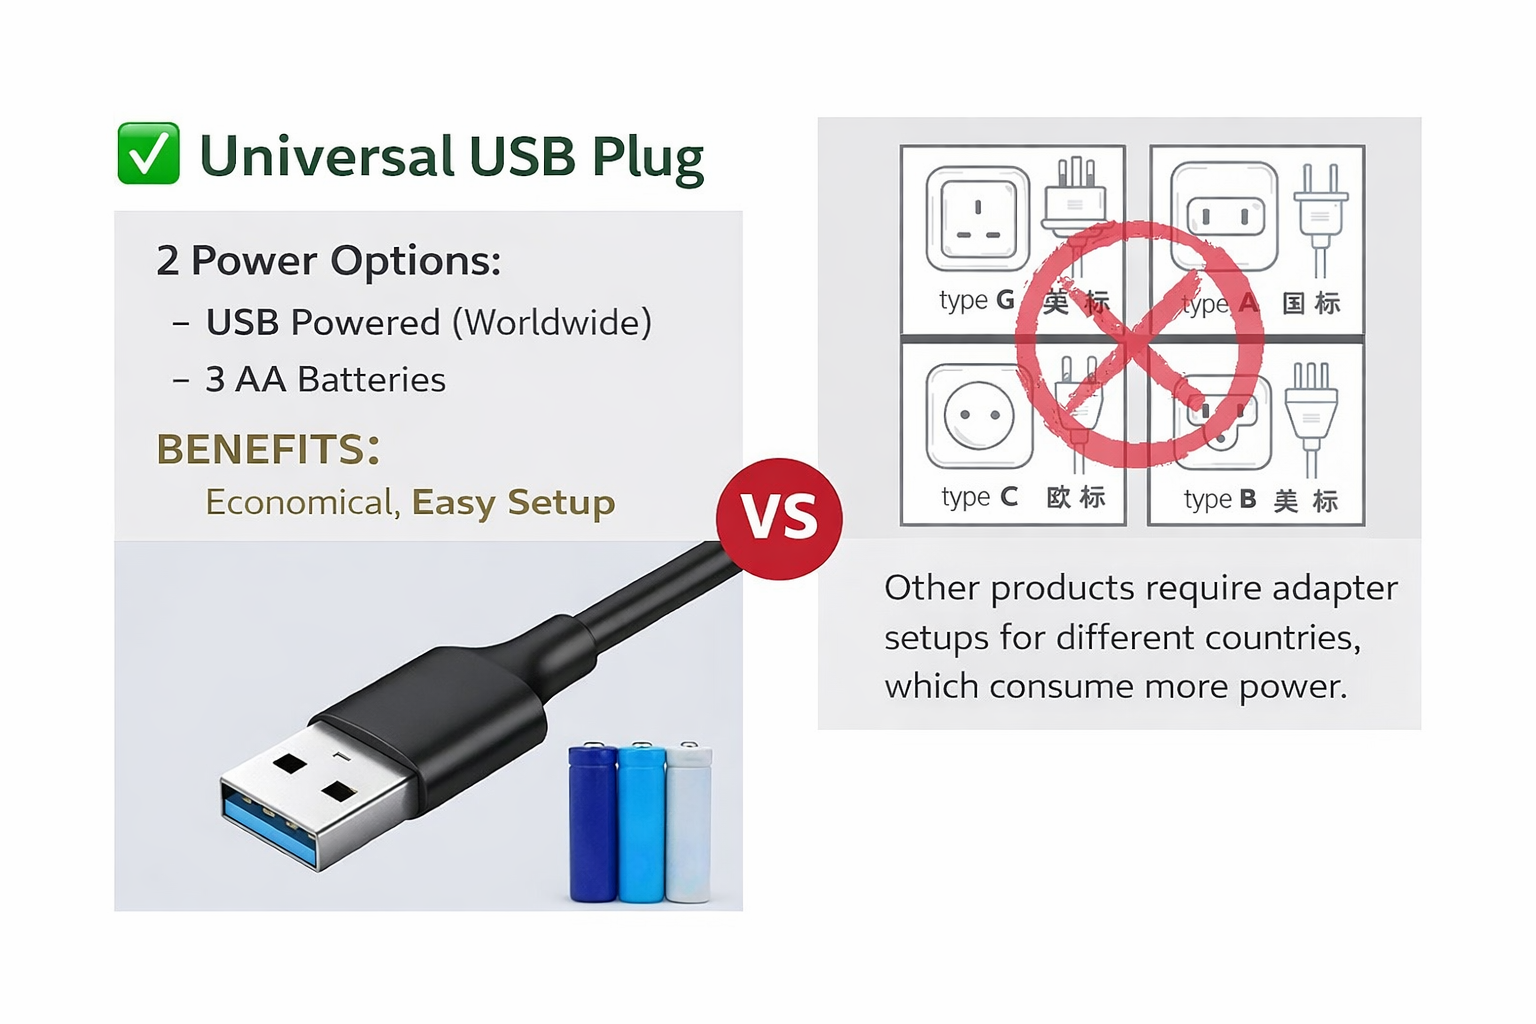
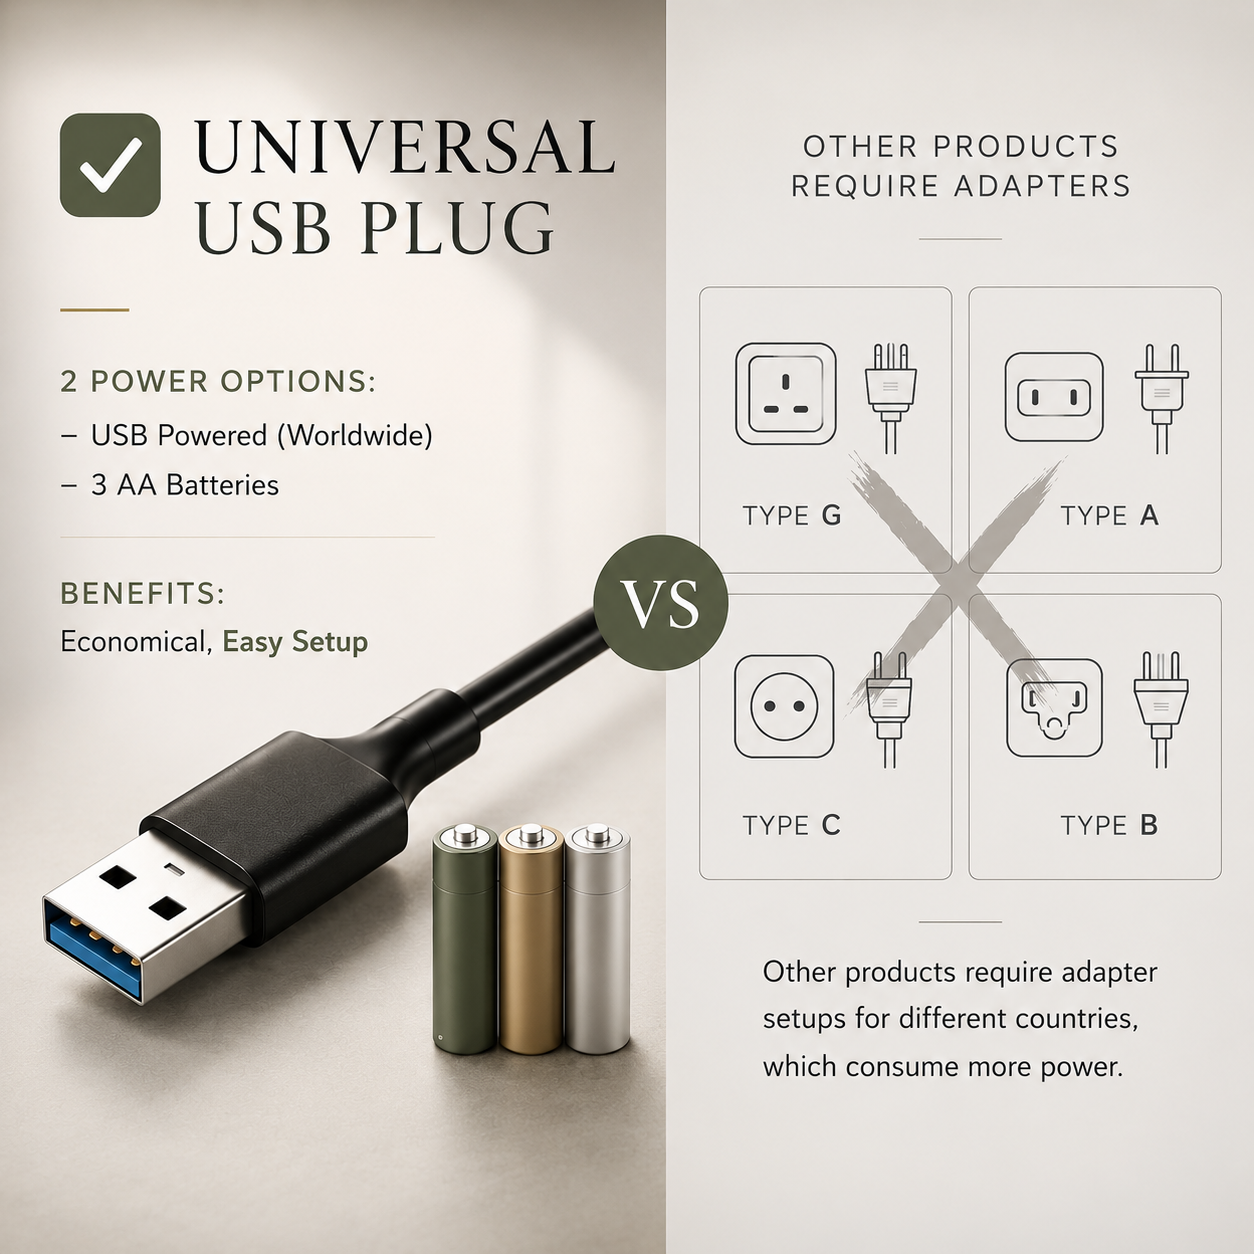
Replace USB/battery power graphic with the gold-battery version everywhere.
Swap Poster/description4.png so Versatile Power Options matches Included & Guides.

diff --git a/scripts/sync-catalog-from-images.js b/scripts/sync-catalog-from-images.js
@@ -207,7 +207,7 @@ function productPageTemplate(slug, name, imagePath, price30) {
     '      <section class="power-compatibility section" aria-labelledby="power-compatibility-title" id="power-compatibility">',
     '        <div class="power-compatibility-wrap">',
     '          <div class="power-compatibility-media">',
-    '            <img src="/Poster/description4.png" alt="ZYBAR power options – versatile plug and play worldwide" class="power-compatibility-img" loading="lazy" width="1536" height="1024" />',
+    '            <img src="/Poster/description4.png?v=gold" alt="ZYBAR power options – versatile plug and play worldwide" class="power-compatibility-img" loading="lazy" width="1536" height="1024" />',
     '          </div>',
     '          <div class="power-compatibility-content">',
     '            <h2 class="power-compatibility-title" id="power-compatibility-title">VERSATILE POWER OPTIONS</h2>',

diff --git a/products/b-nissan-gt-r35/index.html b/products/b-nissan-gt-r35/index.html
@@ -139,7 +139,7 @@
       <section class="power-compatibility section" aria-labelledby="power-compatibility-title" id="power-compatibility">
         <div class="power-compatibility-wrap">
           <div class="power-compatibility-media">
-            <img src="/Poster/description4.png" alt="ZYBAR power options – versatile plug and play worldwide" class="power-compatibility-img" loading="lazy" width="1536" height="1024" />
+            <img src="/Poster/description4.png?v=gold" alt="ZYBAR power options – versatile plug and play worldwide" class="power-compatibility-img" loading="lazy" width="1536" height="1024" />
           </div>
           <div class="power-compatibility-content">
             <h2 class="power-compatibility-title" id="power-compatibility-title">VERSATILE POWER OPTIONS</h2>

diff --git a/products/b-yamaha-r1/index.html b/products/b-yamaha-r1/index.html
@@ -139,7 +139,7 @@
       <section class="power-compatibility section" aria-labelledby="power-compatibility-title" id="power-compatibility">
         <div class="power-compatibility-wrap">
           <div class="power-compatibility-media">
-            <img src="/Poster/description4.png" alt="ZYBAR power options – versatile plug and play worldwide" class="power-compatibility-img" loading="lazy" width="1536" height="1024" />
+            <img src="/Poster/description4.png?v=gold" alt="ZYBAR power options – versatile plug and play worldwide" class="power-compatibility-img" loading="lazy" width="1536" height="1024" />
           </div>
           <div class="power-compatibility-content">
             <h2 class="power-compatibility-title" id="power-compatibility-title">VERSATILE POWER OPTIONS</h2>

diff --git a/products/bmw-classic-3-0/index.html b/products/bmw-classic-3-0/index.html
@@ -139,7 +139,7 @@
       <section class="power-compatibility section" aria-labelledby="power-compatibility-title" id="power-compatibility">
         <div class="power-compatibility-wrap">
           <div class="power-compatibility-media">
-            <img src="/Poster/description4.png" alt="ZYBAR power options – versatile plug and play worldwide" class="power-compatibility-img" loading="lazy" width="1536" height="1024" />
+            <img src="/Poster/description4.png?v=gold" alt="ZYBAR power options – versatile plug and play worldwide" class="power-compatibility-img" loading="lazy" width="1536" height="1024" />
           </div>
           <div class="power-compatibility-content">
             <h2 class="power-compatibility-title" id="power-compatibility-title">VERSATILE POWER OPTIONS</h2>

diff --git a/products/bmw-m1000rr/index.html b/products/bmw-m1000rr/index.html
@@ -139,7 +139,7 @@
       <section class="power-compatibility section" aria-labelledby="power-compatibility-title" id="power-compatibility">
         <div class="power-compatibility-wrap">
           <div class="power-compatibility-media">
-            <img src="/Poster/description4.png" alt="ZYBAR power options – versatile plug and play worldwide" class="power-compatibility-img" loading="lazy" width="1536" height="1024" />
+            <img src="/Poster/description4.png?v=gold" alt="ZYBAR power options – versatile plug and play worldwide" class="power-compatibility-img" loading="lazy" width="1536" height="1024" />
           </div>
           <div class="power-compatibility-content">
             <h2 class="power-compatibility-title" id="power-compatibility-title">VERSATILE POWER OPTIONS</h2>

diff --git a/products/bmw-m2-neon/index.html b/products/bmw-m2-neon/index.html
@@ -139,7 +139,7 @@
       <section class="power-compatibility section" aria-labelledby="power-compatibility-title" id="power-compatibility">
         <div class="power-compatibility-wrap">
           <div class="power-compatibility-media">
-            <img src="/Poster/description4.png" alt="ZYBAR power options – versatile plug and play worldwide" class="power-compatibility-img" loading="lazy" width="1536" height="1024" />
+            <img src="/Poster/description4.png?v=gold" alt="ZYBAR power options – versatile plug and play worldwide" class="power-compatibility-img" loading="lazy" width="1536" height="1024" />
           </div>
           <div class="power-compatibility-content">
             <h2 class="power-compatibility-title" id="power-compatibility-title">VERSATILE POWER OPTIONS</h2>

diff --git a/products/bmw-m4-black/index.html b/products/bmw-m4-black/index.html
@@ -139,7 +139,7 @@
       <section class="power-compatibility section" aria-labelledby="power-compatibility-title" id="power-compatibility">
         <div class="power-compatibility-wrap">
           <div class="power-compatibility-media">
-            <img src="/Poster/description4.png" alt="ZYBAR power options – versatile plug and play worldwide" class="power-compatibility-img" loading="lazy" width="1536" height="1024" />
+            <img src="/Poster/description4.png?v=gold" alt="ZYBAR power options – versatile plug and play worldwide" class="power-compatibility-img" loading="lazy" width="1536" height="1024" />
           </div>
           <div class="power-compatibility-content">
             <h2 class="power-compatibility-title" id="power-compatibility-title">VERSATILE POWER OPTIONS</h2>

diff --git a/products/bmw-m4/index.html b/products/bmw-m4/index.html
@@ -139,7 +139,7 @@
       <section class="power-compatibility section" aria-labelledby="power-compatibility-title" id="power-compatibility">
         <div class="power-compatibility-wrap">
           <div class="power-compatibility-media">
-            <img src="/Poster/description4.png" alt="ZYBAR power options – versatile plug and play worldwide" class="power-compatibility-img" loading="lazy" width="1536" height="1024" />
+            <img src="/Poster/description4.png?v=gold" alt="ZYBAR power options – versatile plug and play worldwide" class="power-compatibility-img" loading="lazy" width="1536" height="1024" />
           </div>
           <div class="power-compatibility-content">
             <h2 class="power-compatibility-title" id="power-compatibility-title">VERSATILE POWER OPTIONS</h2>

diff --git a/products/bmw-m5-e39/index.html b/products/bmw-m5-e39/index.html
@@ -139,7 +139,7 @@
       <section class="power-compatibility section" aria-labelledby="power-compatibility-title" id="power-compatibility">
         <div class="power-compatibility-wrap">
           <div class="power-compatibility-media">
-            <img src="/Poster/description4.png" alt="ZYBAR power options – versatile plug and play worldwide" class="power-compatibility-img" loading="lazy" width="1536" height="1024" />
+            <img src="/Poster/description4.png?v=gold" alt="ZYBAR power options – versatile plug and play worldwide" class="power-compatibility-img" loading="lazy" width="1536" height="1024" />
           </div>
           <div class="power-compatibility-content">
             <h2 class="power-compatibility-title" id="power-compatibility-title">VERSATILE POWER OPTIONS</h2>

diff --git a/products/bugatti-tailights/index.html b/products/bugatti-tailights/index.html
@@ -139,7 +139,7 @@
       <section class="power-compatibility section" aria-labelledby="power-compatibility-title" id="power-compatibility">
         <div class="power-compatibility-wrap">
           <div class="power-compatibility-media">
-            <img src="/Poster/description4.png" alt="ZYBAR power options – versatile plug and play worldwide" class="power-compatibility-img" loading="lazy" width="1536" height="1024" />
+            <img src="/Poster/description4.png?v=gold" alt="ZYBAR power options – versatile plug and play worldwide" class="power-compatibility-img" loading="lazy" width="1536" height="1024" />
           </div>
           <div class="power-compatibility-content">
             <h2 class="power-compatibility-title" id="power-compatibility-title">VERSATILE POWER OPTIONS</h2>

diff --git a/products/c-ford-mustang-gt350r/index.html b/products/c-ford-mustang-gt350r/index.html
@@ -139,7 +139,7 @@
       <section class="power-compatibility section" aria-labelledby="power-compatibility-title" id="power-compatibility">
         <div class="power-compatibility-wrap">
           <div class="power-compatibility-media">
-            <img src="/Poster/description4.png" alt="ZYBAR power options – versatile plug and play worldwide" class="power-compatibility-img" loading="lazy" width="1536" height="1024" />
+            <img src="/Poster/description4.png?v=gold" alt="ZYBAR power options – versatile plug and play worldwide" class="power-compatibility-img" loading="lazy" width="1536" height="1024" />
           </div>
           <div class="power-compatibility-content">
             <h2 class="power-compatibility-title" id="power-compatibility-title">VERSATILE POWER OPTIONS</h2>

diff --git a/products/c-lamborghini-oragne/index.html b/products/c-lamborghini-oragne/index.html
@@ -139,7 +139,7 @@
       <section class="power-compatibility section" aria-labelledby="power-compatibility-title" id="power-compatibility">
         <div class="power-compatibility-wrap">
           <div class="power-compatibility-media">
-            <img src="/Poster/description4.png" alt="ZYBAR power options – versatile plug and play worldwide" class="power-compatibility-img" loading="lazy" width="1536" height="1024" />
+            <img src="/Poster/description4.png?v=gold" alt="ZYBAR power options – versatile plug and play worldwide" class="power-compatibility-img" loading="lazy" width="1536" height="1024" />
           </div>
           <div class="power-compatibility-content">
             <h2 class="power-compatibility-title" id="power-compatibility-title">VERSATILE POWER OPTIONS</h2>
